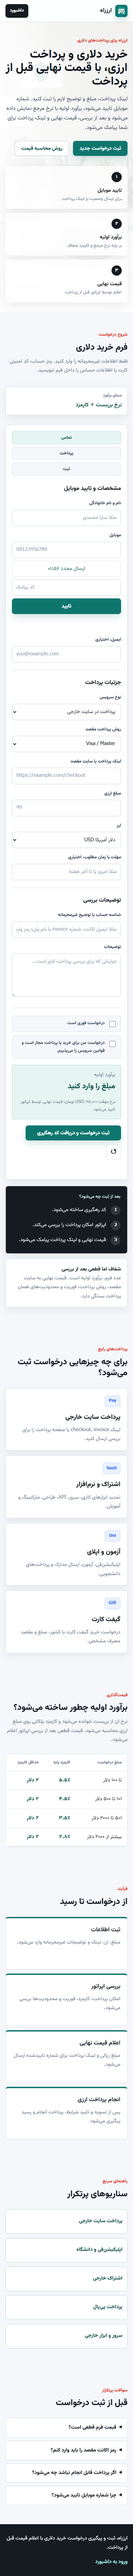
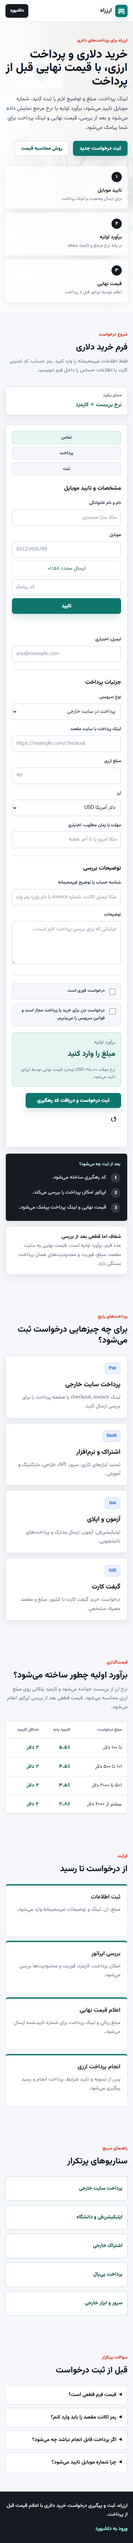
Remove payment method from request form

Changed region(s): [[0.0308, 0.0, 0.9538, 0.9686], [0.0923, 0.6562, 0.3077, 0.7187], [0.1231, 0.2812, 0.1538, 0.3125]]

diff --git a/public/index.html b/public/index.html
@@ -129,16 +129,6 @@
                     <option value="other">سایر موارد</option>
                   </select>
                 </label>
-                <label>
-                  <span>روش پرداخت مقصد</span>
-                  <select name="paymentMethod">
-                    <option>Visa / Master</option>
-                    <option>PayPal</option>
-                    <option>درگاه مستقیم</option>
-                    <option>Invoice</option>
-                    <option>نامشخص</option>
-                  </select>
-                </label>
                 <label class="span-2">
                   <span>لینک پرداخت یا سایت مقصد</span>
                   <input name="targetUrl" inputmode="url" required placeholder="https://example.com/checkout">
@@ -219,7 +209,7 @@
             </div>
             <div class="mini-rate-card">
               <strong>شفاف اما قطعی بعد از بررسی</strong>
-              <p>عدد فرم، برآورد اولیه است. قیمت نهایی به سایت مقصد، روش پرداخت، فوریت و محدودیتهای همان پرداخت بستگی دارد.</p>
+              <p>عدد فرم، برآورد اولیه است. قیمت نهایی به سایت مقصد، مبلغ، فوریت و محدودیتهای همان پرداخت بستگی دارد.</p>
             </div>
           </aside>
         </div>

diff --git a/public/subscription.html b/public/subscription.html
@@ -52,7 +52,7 @@
       <section class="seo-content">
         <article>
           <h2>آیا همه سرویسها قابل پرداخت هستند؟</h2>
-          <p>نه همیشه. بعضی سرویسها محدودیت کشور، حساب یا روش پرداخت دارند. ارزراه بعد از بررسی، وضعیت قابل انجام بودن را اعلام میکند.</p>
+          <p>نه همیشه. بعضی سرویسها محدودیت کشور یا حساب دارند. ارزراه بعد از بررسی، وضعیت قابل انجام بودن را اعلام میکند.</p>
         </article>
         <article>
           <h2>چرا قیمت نهایی بعداً اعلام میشود؟</h2>

diff --git a/public/application-fee.html b/public/application-fee.html
@@ -52,7 +52,7 @@
       <section class="seo-content">
         <article>
           <h2>قبل از پرداخت چه چیزی بررسی میشود؟</h2>
-          <p>لینک پرداخت، مبلغ، ارز، تاریخ مهلت و روش پرداخت مقصد بررسی میشود. اگر پرداخت قابل انجام باشد، قیمت نهایی برای تایید ارسال میشود.</p>
+          <p>لینک پرداخت، مبلغ، ارز و تاریخ مهلت بررسی میشود. اگر پرداخت قابل انجام باشد، قیمت نهایی برای تایید ارسال میشود.</p>
         </article>
         <article>
           <h2>نکته امنیتی</h2>

diff --git a/server.js b/server.js
@@ -1074,7 +1074,6 @@ async function handleApi(req, res, url) {
       const serviceType = cleanText(body.serviceType, 60);
       const targetUrl = normalizeUrl(body.targetUrl);
       const currency = cleanText(body.currency, 8).toUpperCase();
-      const paymentMethod = cleanText(body.paymentMethod, 80);
       const accountHint = cleanText(body.accountHint, 160);
       const description = cleanText(body.description, 1200);
       const deadline = cleanText(body.deadline, 40);
@@ -1106,7 +1105,6 @@ async function handleApi(req, res, url) {
         targetUrl,
         amount,
         currency,
-        paymentMethod,
         accountHint,
         description,
         deadline,

diff --git a/public/foreign-payment.html b/public/foreign-payment.html
@@ -43,7 +43,7 @@
           <ul>
             <li>لینک صفحه پرداخت یا invoice</li>
             <li>مبلغ و ارز</li>
-            <li>روش پرداخت مقصد اگر مشخص است</li>
+            <li>مهلت پرداخت اگر محدود است</li>
             <li>توضیح غیرمحرمانه درباره سفارش</li>
           </ul>
         </aside>
